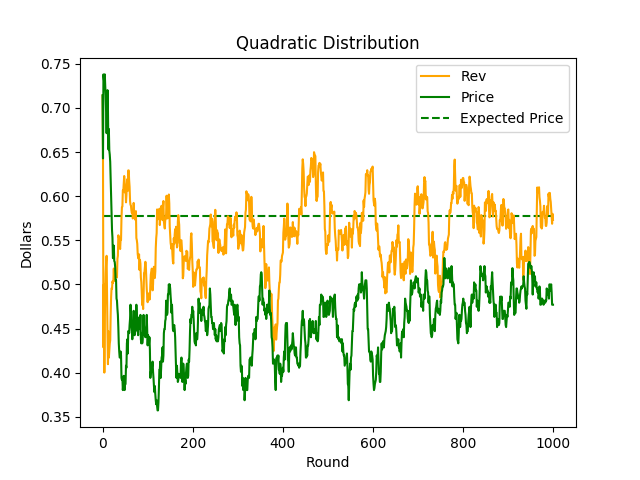
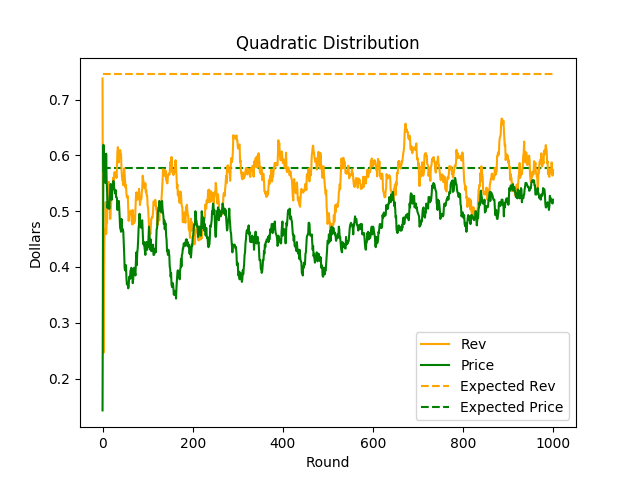
fin part1

diff --git a/Project4/part1.py b/Project4/part1.py
@@ -36,14 +36,14 @@ def part1():
   uni_d = UniDist()
   quad_d = QuadDist()
 
-  # ## Base Simulations
-  # n, trials = 1000, 100
-  # price, rev = np.array([]), []
-  # last10 = int(-n / 10)
-  # for _ in range(trials):
-  #   temp_rev, temp_p = run_experiment(dist_type=uni_d.random)
-  #   rev.append(np.mean(temp_rev[last10:]))
-  #   price = np.hstack((price, temp_p[:, 0]))
+  ## Base Simulations
+  n, trials = 1000, 100
+  price, rev = np.array([]), []
+  last10 = int(-n / 10)
+  for _ in range(trials):
+    temp_rev, temp_p = run_experiment(dist_type=uni_d.random)
+    rev.append(np.mean(temp_rev[last10:]))
+    price = np.hstack((price, temp_p[:, 0]))
 
   # print ("=========================================")
   # print ("Base Simulation")
@@ -53,8 +53,8 @@ def part1():
   # print ("=========================================\n")
 
   # ## How long to converge
-  # n_rounds = [50, 100, 250, 500, 1000, 2500, 5000, 10000]
-  n_rounds = np.logspace(2, 4, 30, dtype=int)
+  n_rounds = [50, 100, 250, 500, 1000, 2500, 5000, 10000]
+  # n_rounds = np.logspace(2, 5, 40, dtype=int)
   fins = []
   trials = 100
   for n in n_rounds:
@@ -67,66 +67,87 @@ def part1():
       price = np.hstack((price, temp_p[:, 0]))
       avg_p[trial]  = np.mean(temp_p[-20:])
 
-    avg_fin = np.mean(converg_time)
-    fins.append(avg_fin)
-    se_fin = np.std(converg_time, ddof=1) / math.sqrt(trials)
-    print ("=========================================")
-    print ("Total rounds {}".format(n))
-    print ("Average time to converge: {}".format(avg_fin))
-    # print ("% time to converge: {}".format(avg_fin / n))
-    # print ("SE of time to converge: {}".format(se_fin))
-    # print ("Mode Res Price: {}".format(round(stats.mode(price)[0][0], 2)))
-    # print ("Avg Converged Res Price:  {}".format(round(np.mean(avg_p), 4)))
-    # print ("Avg Revenue: {}".format(round(np.mean(avg_rev), 4)))
-    print ("=========================================\n")
+  #   avg_fin = np.mean(converg_time)
+  #   fins.append(avg_fin)
+  #   se_fin = np.std(converg_time, ddof=1) / math.sqrt(trials)
+  #   print ("=========================================")
+  #   print ("Total rounds {}".format(n))
+  #   print ("Average time to converge: {}".format(avg_fin))
+  #   print ("% time to converge: {}".format(avg_fin / n))
+  #   print ("SE of time to converge: {}".format(se_fin))
+  #   print ("Mode Res Price: {}".format(round(stats.mode(price)[0][0], 2)))
+  #   print ("Avg Converged Res Price:  {}".format(round(np.mean(avg_p), 4)))
+  #   print ("Avg Revenue: {}".format(round(np.mean(avg_rev), 4)))
+  #   print ("=========================================\n")
 
-  plt.clf()
-  plt.plot(n_rounds, fins)
-  plt.plot([0, n], [0, n])
-  plt.title("Num of Rounds to Convergence")
-  plt.xlabel("Total Ronds")
-  plt.ylabel("Num Rounds to Converge")
-  plt.xscale("log")
-  plt.yscale("log")
-  plt.savefig("./figures/round_converge")
+  # plt.clf()
+  # plt.plot(n_rounds, fins, label="Round for Convergence")
+  # plt.plot([0, n], [0, n], label="Linear Growth")
+  # plt.title("Num of Rounds to Convergence")
+  # plt.xlabel("Total Ronds")
+  # plt.ylabel("Num Rounds to Converge")
+  # plt.xscale("log")
+  # plt.yscale("log")
+  # plt.legend()
+  # plt.savefig("./figures/round_converge")
 
-  # ## Changing # Bidders
-  # n_bidders = [2, 4, 8, 16, 32, 50, 100]
-  # n, trials = 1000, 100
-  # last10 = int(-n / 10)
-  # for bidders in n_bidders:
-  #   avg_p, price, last10_rev, rev = np.empty((trials, 1)), np.array([]), np.empty((trials, 1)), np.array([])
-  #   for trial in range(trials):
-  #     # print ("Trial {}".format(trial))
-  #     temp_rev, temp_p = run_experiment(dist_type=uni_d.random, n_bidders=bidders)
-  #     rev = np.hstack((rev, temp_rev[:, 0]))
-  #     last10_rev[trial] = np.mean(temp_rev[last10:])
-  #     price = np.hstack((price, temp_p[:, 0]))
-  #     avg_p[trial]  = np.mean(temp_p[last10:])
+  ## Changing # Bidders
+  n_bidders = [2, 4, 8, 16, 32, 50, 100]
+  n, trials = 1000, 5
+  last10 = int(-n / 10)
+  prices = {}
+  sem = {}
+  for bidders in n_bidders:
+    sem[bidders] = []
+    prices[bidders] = np.empty((1, n))
+    avg_p, price, last10_rev, rev = np.empty((trials, 1)), np.array([]), np.empty((trials, 1)), np.array([])
+    for trial in range(trials):
+      temp_rev, temp_p = run_experiment(dist_type=uni_d.random, n_bidders=bidders)
+      rev = np.hstack((rev, temp_rev[:, 0]))
+      last10_rev[trial] = np.mean(temp_rev[last10:])
+      price = np.hstack((price, temp_p[:, 0]))
+      avg_p[trial]  = np.mean(temp_p[last10:])
+      prices[bidders] = np.vstack((prices[bidders], np.asarray([sum(price.tolist()[max(0, n_i-30):n_i + 1]) / len(price.tolist()[max(0, n_i-30):n_i + 1]) for n_i in range(n)])))
+      sem[bidders].append(stats.sem(price))
 
   #   print ("=========================================")
   #   print ("Num Bidders: {}".format(bidders))
   #   print ("Mode Res Price: {}".format(round(stats.mode(price)[0][0], 2)))
+  #   print ("SE Res Price: {}".format(round(stats.sem(price), 2)))
   #   print ("Avg Converged Res Price:  {}".format(round(np.mean(avg_p), 4)))
   #   print ("Avg Revenue: {}".format(round(np.mean(rev), 4)))
   #   print ("Avg Converged Revenue: {}".format(round(np.mean(last10_rev), 4)))
   #   print ("=========================================\n")
+  
+  # price_2 = np.mean(prices[2][1:, :], axis=0).reshape(-1, 1)
+  # price_16 = np.mean(prices[16][1:, :], axis=0).reshape(-1, 1)
+  # price_100 = np.mean(prices[100][1:, :], axis=0).reshape(-1, 1)
 
-  ## Different Distributions
+  # plt.clf()
+  # plt.plot(range(n), price_2, label="b=2 se: {}".format(round(np.mean(sem[2]), 4)))
+  # plt.plot(range(n), price_16, label="b=16")
+  # plt.plot(range(n), price_100, label="b=100 se: {}".format(round(np.mean(sem[100]), 4)))
+  # plt.xlabel("Round")
+  # plt.ylabel("Reserve Price")
+  # plt.title("Number of Bidders v Reserve Price")
+  # plt.legend()
+  # plt.savefig("./figures/bidders_price")
+
+  # Different Distributions
   # expected reserved price of quad is .578
-  # n, k, trials = 1000, 15, 1
-  # dists = [quad_d, uni_d]
-  # last10 = int(-n / 10)
-  # for dist_type in dists:
-  #   avg_p, price, rev, last10_rev = np.empty((trials, 1)), [], [], np.empty((trials, 1))
-  #   print ("Working with", str(dist_type))
-  #   for trial in range(trials):
-  #     # print ("Trial {}".format(trial))
-  #     temp_rev, temp_p = run_experiment(dist_type=dist_type.random, k=k)
-  #     rev = np.hstack((rev, temp_rev[:, 0]))
-  #     last10_rev[trial] = np.mean(temp_rev[last10:])
-  #     avg_p[trial] = np.mean(temp_p[last10:])
-  #     price = np.hstack((price, temp_p[:, 0]))
+  n, k, trials = 1000, 15, 1
+  dists = [quad_d, uni_d]
+  last10 = int(-n / 10)
+  for dist_type in dists:
+    avg_p, price, rev, last10_rev = np.empty((trials, 1)), [], [], np.empty((trials, 1))
+    print ("Working with", str(dist_type))
+    for trial in range(trials):
+      # print ("Trial {}".format(trial))
+      temp_rev, temp_p = run_experiment(dist_type=dist_type.random, k=k)
+      rev = np.hstack((rev, temp_rev[:, 0]))
+      last10_rev[trial] = np.mean(temp_rev[last10:])
+      avg_p[trial] = np.mean(temp_p[last10:])
+      price = np.hstack((price, temp_p[:, 0]))
 
   #     graph_rev_price(rev, price, "Round", "Dollars", str(dist_type), rev_line=dist_type.rev, p_line=dist_type.price)
   #   print ("=========================================")

diff --git a/Project4/spa.py b/Project4/spa.py
@@ -49,5 +49,6 @@ class SecondPriceAuction:
       ## Update Payoffs
       for update_i in range(self.k):
         update_price = self.actions[update_i]
+        payoffs[i, update_i] = self.get_revenue(bids, update_price)
 
     return revenues, prices

diff --git a/Project4/distributions.py b/Project4/distributions.py
@@ -17,7 +17,7 @@ class UniDist:
 class QuadDist:
     def __init__(self):
         self.price = 1 / math.sqrt(3)
-        self.rev = None
+        self.rev = math.sqrt(5/9)
         
     def __str__(self):
         return "Quadratic Distribution"
